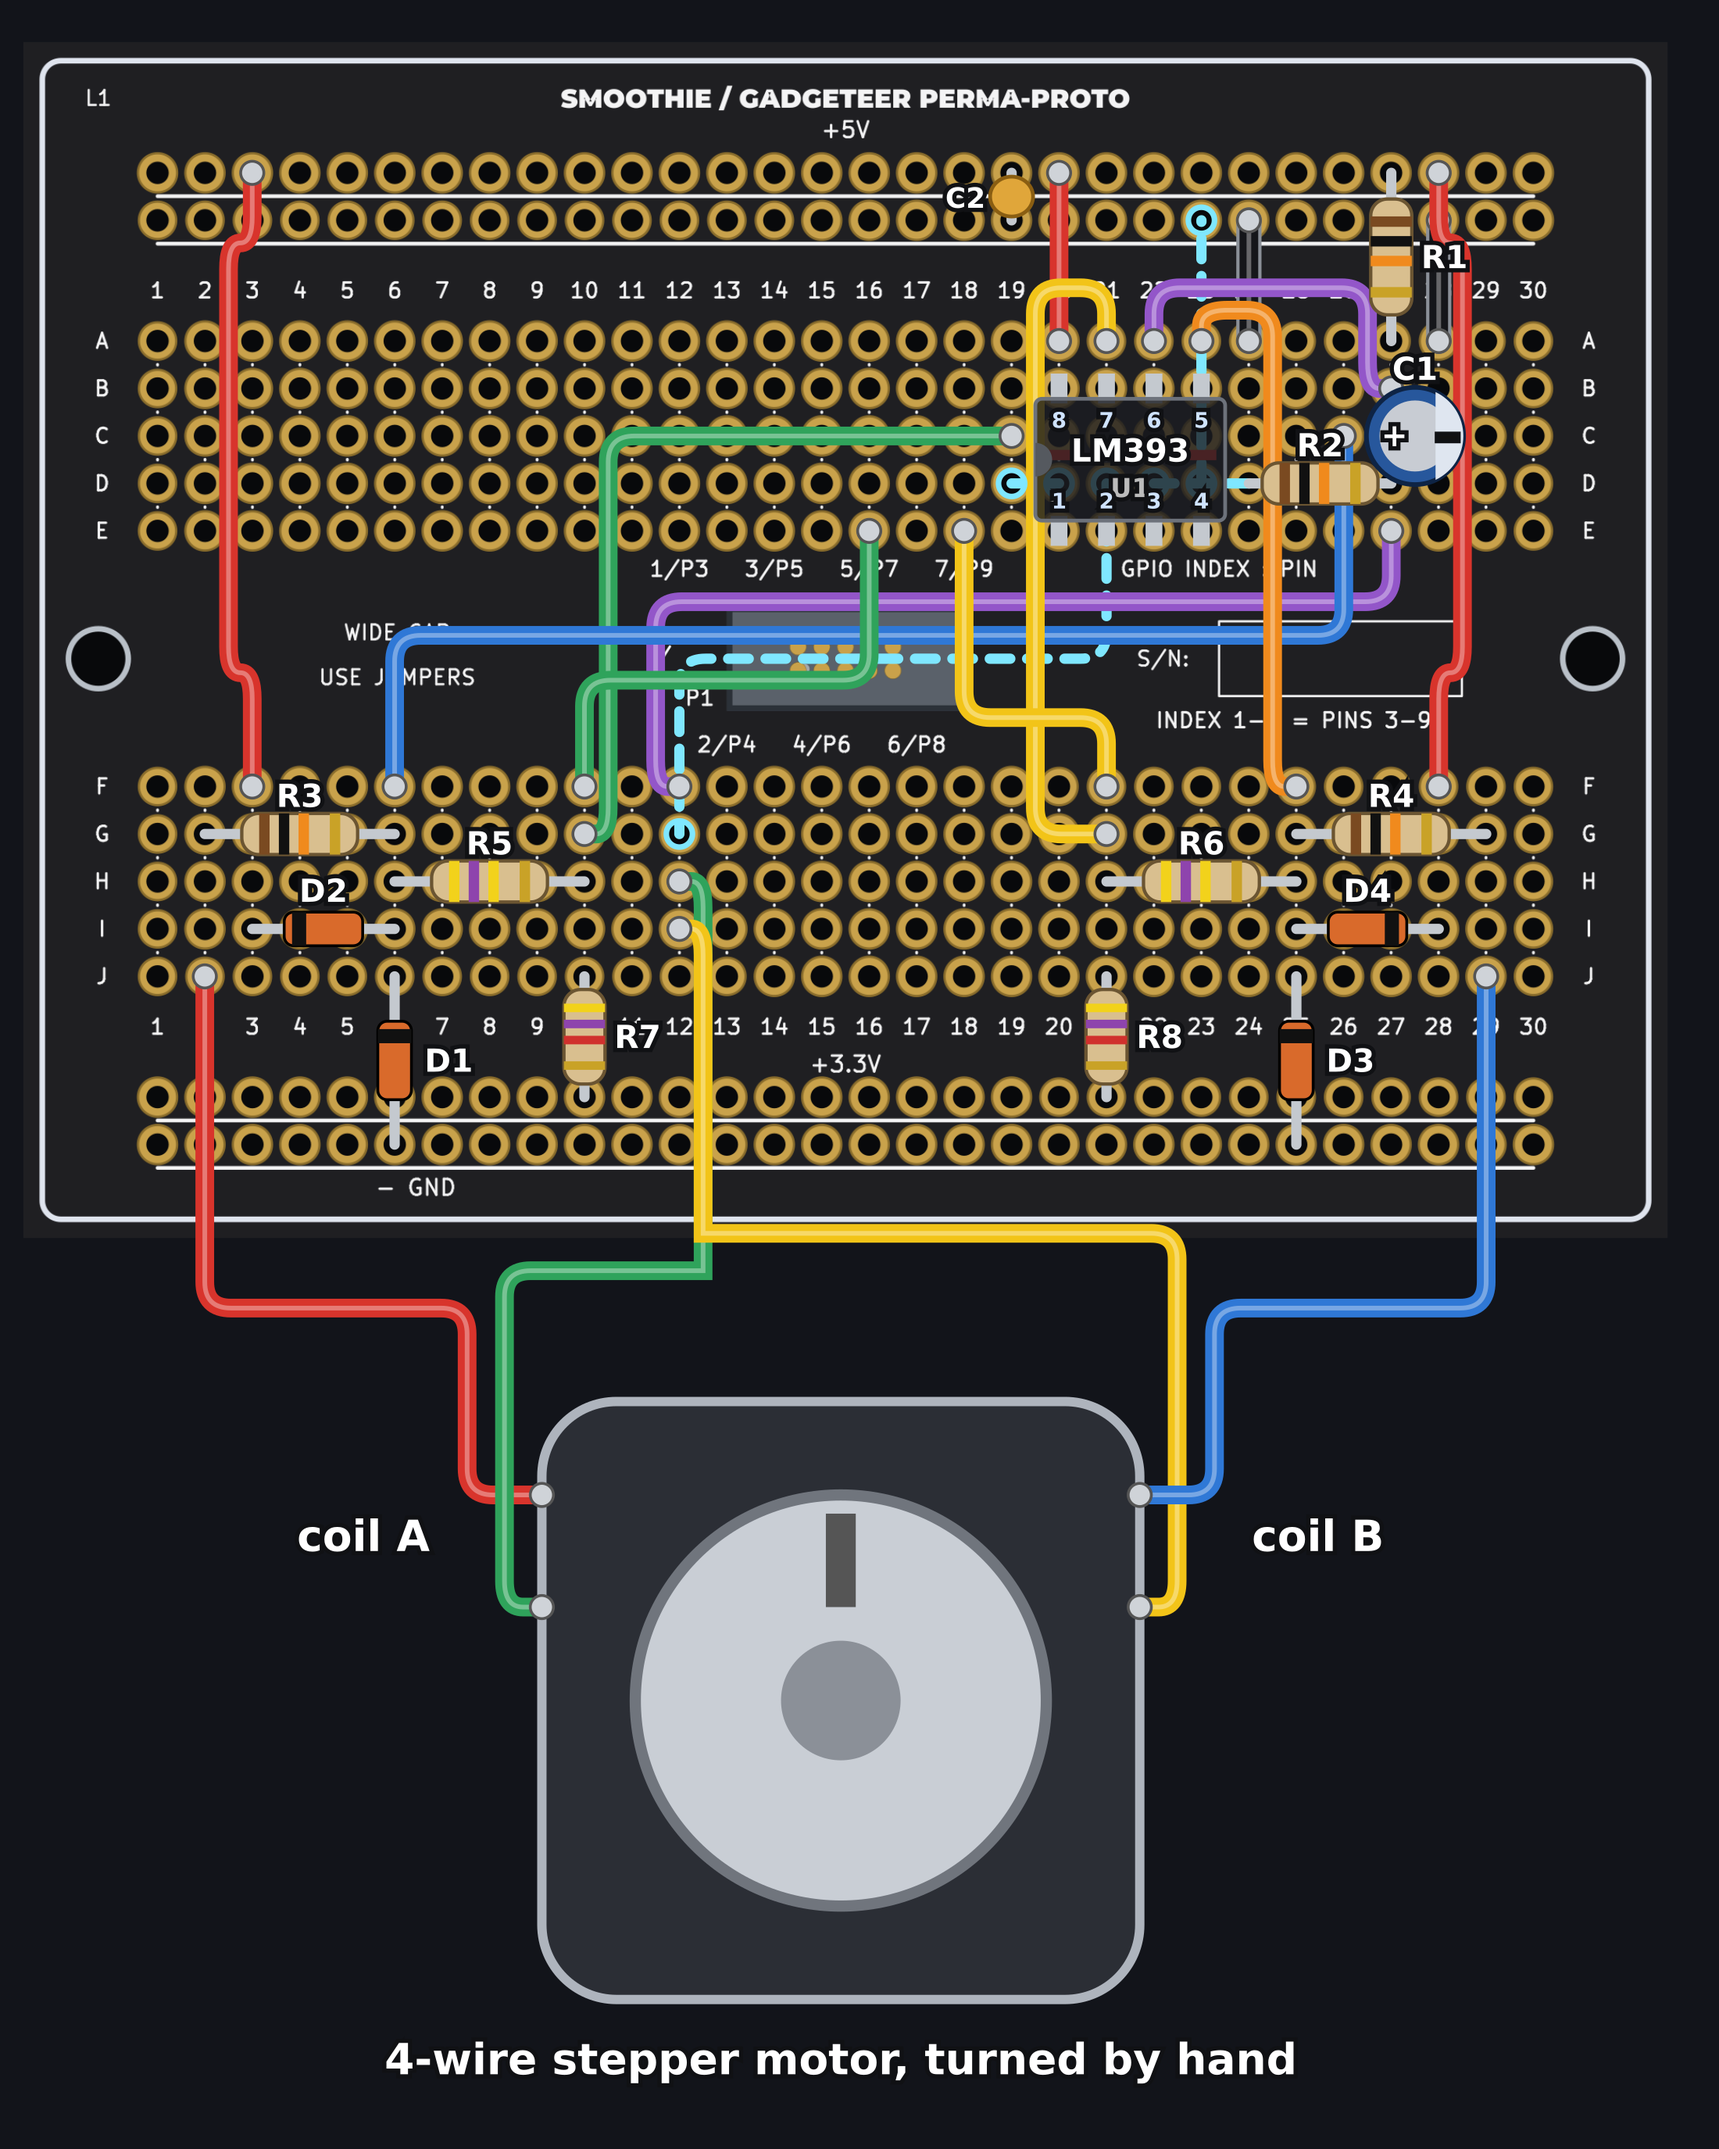
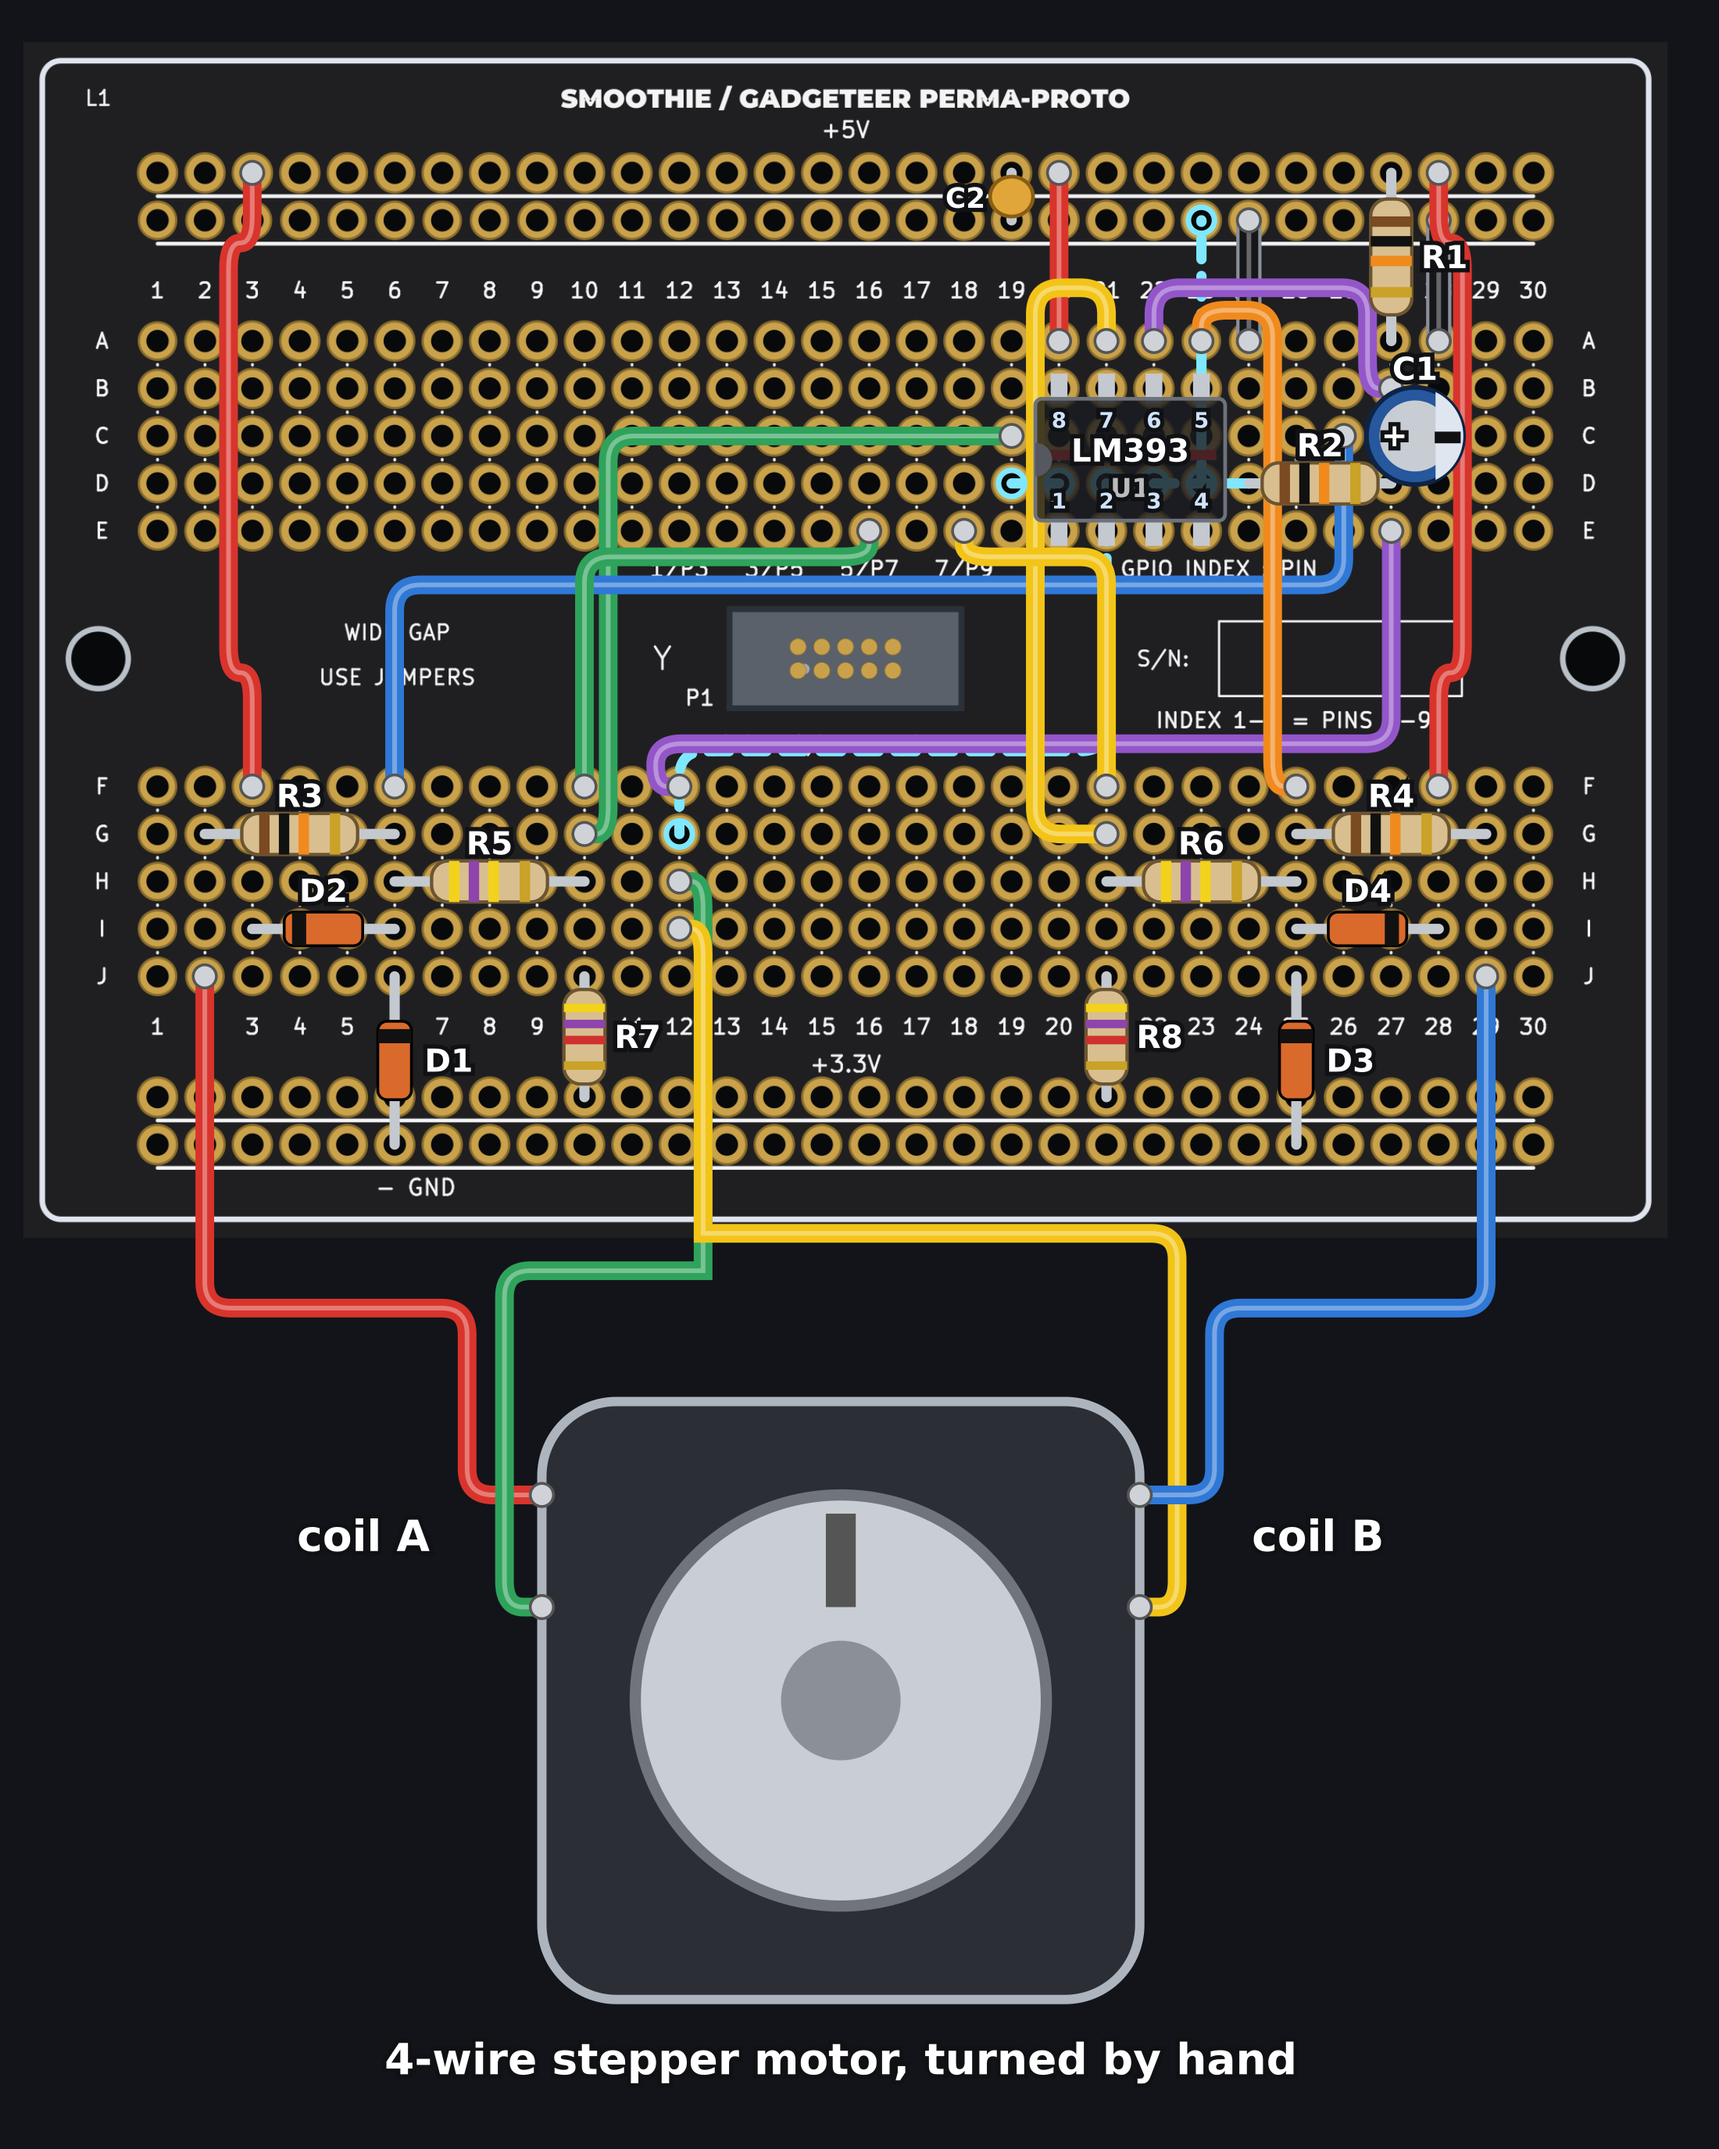
Keep the perma-proto project wires clear of the ribbon connector
Also word the solenoid limits as suggestions.

Changed region(s): [[0.2164, 0.2473, 0.8345, 0.3709]]

diff --git a/docs/extensions/perma-proto-gadgeteer.md b/docs/extensions/perma-proto-gadgeteer.md
@@ -215,7 +215,7 @@ The board is copper and holes only. Seven connector pins and both supplies are w
 
 ## Three example projects {#projects}
 
-Each project uses its own board. The drawings are made from the same hole list as the tables, and that list was checked by script for open and shorted connections. The circuits were designed on paper from datasheet figures, and the numbers given are calculated: they have not been built or measured. Solder with the ribbon cable unplugged, check every connection with a meter, and check the output voltage before you plug in: no signal pin may see more than 3.3 V.
+Each project uses its own board. The drawings are made from the same hole list as the tables, and that list was checked by script for open and shorted connections. The circuits were designed from datasheet figures, and the numbers given are calculated, not measured. Solder with the ribbon cable unplugged, check every connection with a meter, and check the output voltage before you plug in: no signal pin may see more than 3.3 V.
 
 Hole names follow the board printing: `H7` is row H, column 7. A rail hole such as "+5 V rail 19" is the nineteenth hole of that rail. Black wires are ground.
 
@@ -343,8 +343,8 @@ The chip covers the holes in rows C and D, so the pins in row E are wired from u
 </table></div>
 {:/nomarkdown}
 
-- **The solenoid has its own power supply**, matched to the coil (for example 12 V for a 12 V coil), at most 24 V DC. Never feed the coil from the board&rsquo;s rails or the ribbon cable. The only link between the two supplies is ground.
-- Keep the coil current at 0.5 A or less. The current this board&rsquo;s copper can carry has not been established; solder the five coil-side wires directly and keep them short.
+- **The solenoid has its own power supply**, matched to the coil (for example 12 V for a 12 V coil). Never feed the coil from the board&rsquo;s rails or the ribbon cable. The only link between the two supplies is ground.
+- As a starting point, choose a coil of 24 V DC or less that draws 0.5 A or less. This is a suggestion, not a rating: the current and voltage limits of this board&rsquo;s copper have not been established. Solder the five coil-side wires directly and keep them short.
 - Check the coil&rsquo;s permitted duty cycle. Tapping holds it on about half the time, which can overheat a solenoid rated for short pulses.
 - Fit D1 with its band towards the supply positive wire. Reversed, it short-circuits the coil supply.
 - To change the speed, change R2: roughly 1.44 / ((R1 + 2 × R2) × C1) taps per second.
